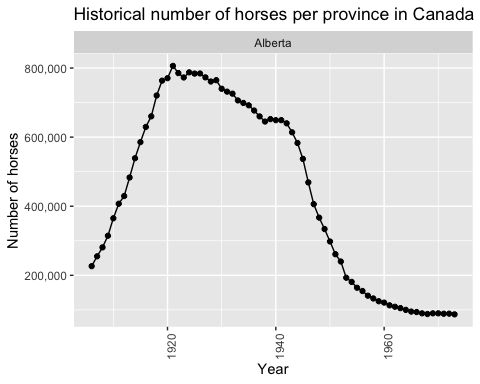
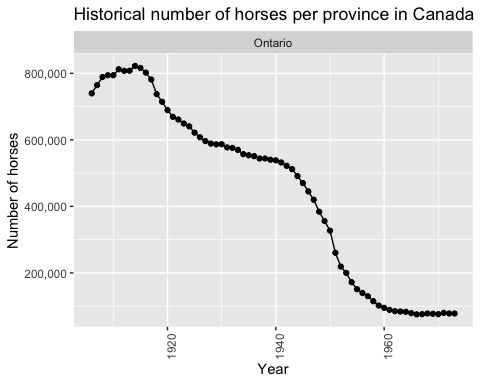
Added parameters

diff --git a/doc/hist_horse_pop.md b/doc/hist_horse_pop.md
@@ -62,7 +62,7 @@ time point between 1940 - 1972:
 Table 1. Maximum and minimum number of horses for each province between
 1940 and 1972
 
-Below we zoom in and look at the province of Alberta:
+Below we zoom in and look at the province of Ontario:
 
 <img src="hist_horse_pop_files/figure-gfm/plot province-1.png" title="Figure 2. Number of horses in the province of focus" alt="Figure 2. Number of horses in the province of focus" width="50%" />
 
